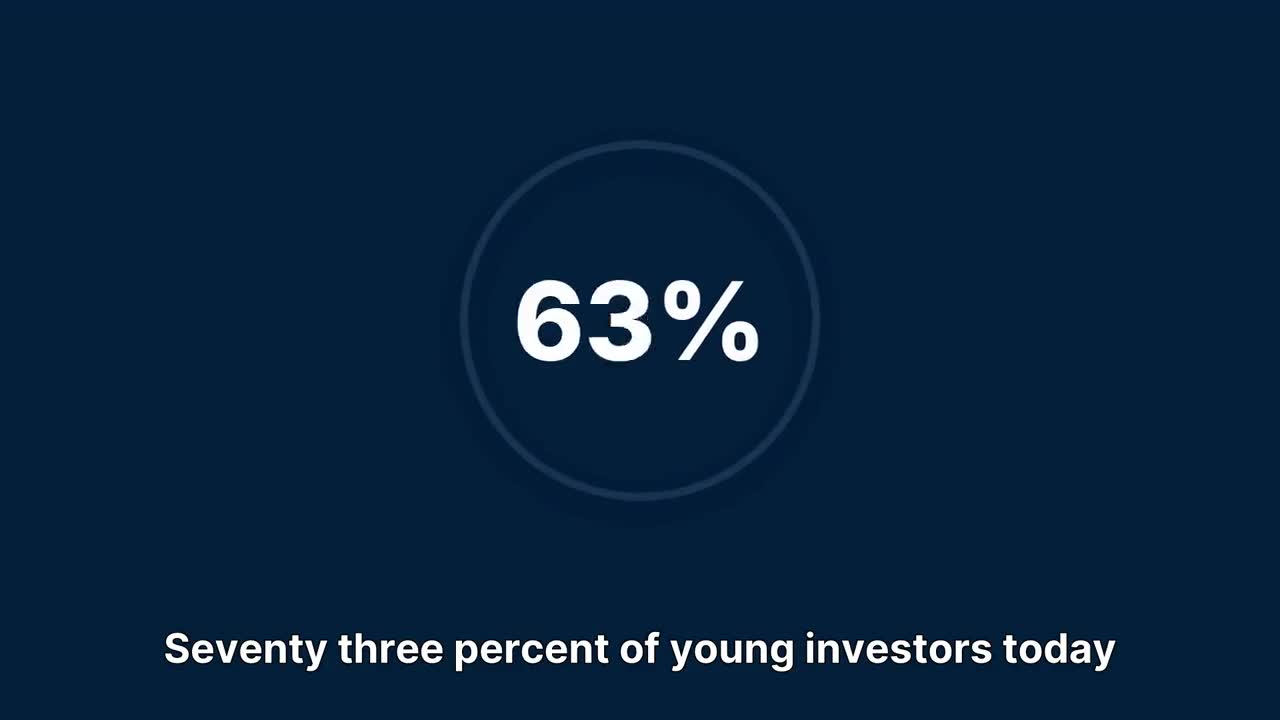
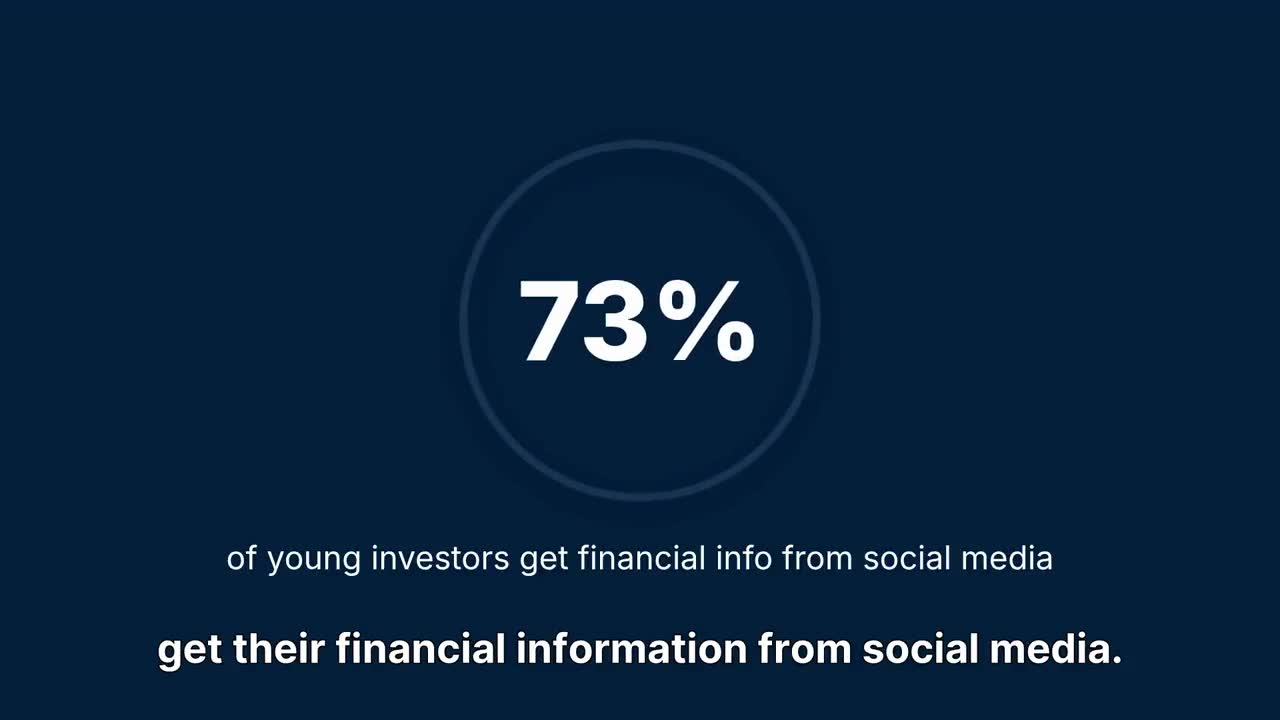
Particles form the giant wordmark; freeze-to-still for audit headroom
- Cycle is waveform -> sphere -> giant ghost wordmark (12.6s): particles
  converge into the full-width bigmark geometry, crossfade to the real
  low-opacity text layer (particles fade fully), hold, dissolve back.
  Ghost is invisible outside this moment (opacity JS-driven). Bigmark
  ~12% larger (23vw, cap 385px); particle targets and DOM share the
  same clamp so the crossfade stays aligned.
- Performance headroom: on the no-interaction fallback path the effect
  renders its entrance then holds a still frame until the first real
  user input resumes it permanently.
- Problem-section poster re-extracted at the settled 73% frame - the
  old 3s frame caught the counter mid-animation at "63%", which
  misrepresented the stat that actually appears in the video (73%).

Changed region(s): [[0.125, 0.8556, 0.875, 0.9472], [0.4062, 0.3667, 0.5938, 0.5194], [0.1562, 0.7639, 0.8438, 0.7944]]

diff --git a/main.js b/main.js
@@ -184,6 +184,8 @@ var EMAIL = "[email redacted]";
      hero particle universe — morphs waveform → globe → wordmark
      raw WebGL points; desktop ~110k, mobile ~30k
      ============================================================ */
+  var fxCtl = { live: false, resume: null };
+
   var initHeroFx = function () {
     var canvas = document.getElementById("hero-fx");
     var hero = document.getElementById("hero");
@@ -195,13 +197,16 @@ var EMAIL = "[email redacted]";
     var isMobile = window.matchMedia("(pointer: coarse)").matches || window.innerWidth < 720;
     var N = isMobile ? 30000 : 110000;
     var dpr = Math.min(window.devicePixelRatio || 1, isMobile ? 1.25 : 1.5);
+    /* the ghost wordmark's face — matches the DOM bigmark exactly */
+    var WORDMARK_FONT = '400 240px "Instrument Serif", "New York", Georgia, serif';
 
     var VS =
       "attribute vec3 aA;\n" +
       "attribute vec3 aB;\n" +
+      "attribute vec3 aC;\n" +
       "attribute float aSeed;\n" +
-      "uniform float uT, uIA, uScaleB, uRotY, uScroll, uMouseF, uDpr, uPx, uHalfH, uMR, uMA;\n" +
-      "uniform vec2 uW;\n" +
+      "uniform float uT, uIA, uScaleB, uScaleC, uCY, uRotY, uScroll, uMouseF, uDpr, uPx, uHalfH, uMR, uMA, uSettle;\n" +
+      "uniform vec3 uW;\n" +
       "uniform vec2 uMouse;\n" +
       "varying float vL;\n" +
       "void main() {\n" +
@@ -213,9 +218,11 @@ var EMAIL = "[email redacted]";
       "  vec3 pB = aB;\n" +
       "  float cr = cos(uRotY), sr = sin(uRotY);\n" +
       "  pB = vec3(pB.x * cr + pB.z * sr, pB.y, -pB.x * sr + pB.z * cr) * uScaleB;\n" +
-      "  vec2 c = pA.xy * uW.x + vec2(pB.x * uIA, pB.y) * uW.y;\n" +
-      "  float z = pA.z * uW.x + pB.z * uW.y;\n" +
-      "  float focus = max(uW.x, uW.y);\n" +
+      "  vec3 pC = aC * uScaleC;\n" +
+      "  pC.y += uCY;\n" +
+      "  vec2 c = pA.xy * uW.x + vec2(pB.x * uIA, pB.y) * uW.y + vec2(pC.x * uIA, pC.y) * uW.z;\n" +
+      "  float z = pA.z * uW.x + pB.z * uW.y + pC.z * uW.z;\n" +
+      "  float focus = max(max(uW.x, uW.y), uW.z);\n" +
       "  float scat = 1.0 - focus;\n" +
       "  c += vec2(sin(aSeed * 81.0 + uT * 2.6), cos(aSeed * 47.0 + uT * 2.1)) * scat * 0.55;\n" +
       "  z += sin(aSeed * 23.0 - uT * 2.3) * scat * 0.3;\n" +
@@ -225,14 +232,15 @@ var EMAIL = "[email redacted]";
       "  vec2 dmpx = vec2((c.x - uMouse.x) * uHalfH / uIA, (c.y - uMouse.y) * uHalfH);\n" +
       "  float dpx = length(dmpx) + 0.001;\n" +
       "  float tq = clamp(1.0 - dpx / uMR, 0.0, 1.0);\n" +
-      "  float ampPx = uMouseF * uMA * tq * tq;\n" +
+      "  float ampPx = uMouseF * uMA * tq * tq * (1.0 - uSettle * 0.75);\n" +
       "  c += (dmpx / dpx) * ampPx * vec2(uIA / uHalfH, 1.0 / uHalfH);\n" +
       "  gl_Position = vec4(c, 0.0, 1.0);\n" +
       "  gl_PointSize = (0.9 + 1.3 * fract(aSeed * 7.13)) * per * uPx * uDpr * (1.0 + uW.x * 1.1);\n" +
       "  float lum = 0.075 + 0.8 * pow(fract(aSeed * 3.77), 3.0);\n" +
       "  lum *= (0.55 + 0.45 * per);\n" +
       "  lum *= 1.0 + max(0.0, wv) * 1.6 * uW.x;\n" +
-      "  lum *= dot(uW, vec2(1.65, 1.0)) + scat * 1.1;\n" +
+      "  lum *= dot(uW, vec3(1.65, 1.0, 0.85)) + scat * 1.1;\n" +
+      "  lum *= 1.0 - uSettle * uW.z;\n" +
       "  vL = lum;\n" +
       "}";
     var FS =
@@ -252,7 +260,7 @@ var EMAIL = "[email redacted]";
     };
 
     /* init is chunked into short phases so no single long task forms */
-    var prog, A, B, seeds;
+    var prog, A, B, C, seeds;
     var phases = [];
     var runPhases = function (i) {
       if (i >= phases.length) return;
@@ -299,6 +307,35 @@ var EMAIL = "[email redacted]";
       }
     });
 
+    phases.push(function () {
+      /* shape C: the giant wordmark, sampled from rasterized text.
+         Baked at unit scale (x in canvas-halves); uScaleC maps it onto
+         the DOM bigmark's exact on-screen geometry at resize time. */
+      C = new Float32Array(N * 3);
+      var tc = document.createElement("canvas");
+      tc.width = 1400; tc.height = 340;
+      var ctx = tc.getContext("2d", { willReadFrequently: true });
+      ctx.fillStyle = "#fff";
+      ctx.font = WORDMARK_FONT;
+      ctx.textAlign = "center";
+      ctx.textBaseline = "middle";
+      ctx.fillText("StockerTV", 700, 178);
+      var img = ctx.getImageData(0, 0, 1400, 340).data;
+      var px = [];
+      for (var y = 0; y < 340; y += 2) {
+        for (var x = 0; x < 1400; x += 2) {
+          if (img[(y * 1400 + x) * 4 + 3] > 128) px.push(x, y);
+        }
+      }
+      if (!px.length) px = [700, 170];
+      for (var k = 0; k < N; k++) {
+        var pi = (Math.floor(Math.random() * (px.length / 2))) * 2;
+        C[k * 3] = ((px[pi] + Math.random() * 1.2) / 1400 - 0.5) * 2;
+        C[k * 3 + 1] = (0.5 - (px[pi + 1] + Math.random() * 1.2) / 340) * 2 * 0.243;
+        C[k * 3 + 2] = (Math.random() - 0.5) * 0.1;
+      }
+    });
+
     var U = {};
     phases.push(function () {
       var bindAttr = function (name, data, comps) {
@@ -311,8 +348,9 @@ var EMAIL = "[email redacted]";
       };
       bindAttr("aA", A, 3);
       bindAttr("aB", B, 3);
+      bindAttr("aC", C, 3);
       bindAttr("aSeed", seeds, 1);
-      ["uT", "uIA", "uScaleB", "uRotY", "uScroll", "uMouseF", "uDpr", "uPx", "uW", "uMouse", "uHalfH", "uMR", "uMA"]
+      ["uT", "uIA", "uScaleB", "uScaleC", "uCY", "uRotY", "uScroll", "uMouseF", "uDpr", "uPx", "uW", "uMouse", "uHalfH", "uMR", "uMA", "uSettle"]
         .forEach(function (n) { U[n] = gl.getUniformLocation(prog, n); });
       gl.enable(gl.BLEND);
       gl.blendFunc(gl.ONE, gl.ONE);
@@ -331,32 +369,36 @@ var EMAIL = "[email redacted]";
       IA = r.height / r.width;
       gl.uniform1f(U.uIA, IA);
       gl.uniform1f(U.uHalfH, r.height / 2);
-      /* pointer wake scales with viewport: 170px/30px on desktop,
-         down to ~90px/16px on phones — same felt proportion */
       var mr = Math.max(90, Math.min(170, Math.min(r.width, r.height) * 0.18));
       gl.uniform1f(U.uMR, mr);
       gl.uniform1f(U.uMA, mr * 0.176);
       gl.uniform1f(U.uScaleB, Math.min(1, 0.85 / (0.62 * IA)));
+      /* particle wordmark matches the DOM bigmark: font clamp mirrors the
+         CSS clamp(100px, 23vw, 385px); raster canvas (1400px @ 240px font)
+         scales to F/240, converted to clip units of h/2 px each */
+      var F = Math.max(100, Math.min(385, r.width * 0.23));
+      gl.uniform1f(U.uScaleC, (1400 * F / 240) / r.height);
+      gl.uniform1f(U.uCY, 1 - 2 * 0.46);
     };
     resize();
     window.addEventListener("resize", resize);
     gl.uniform1f(U.uDpr, dpr);
     gl.uniform1f(U.uPx, isMobile ? 2.2 : 2.0);
 
-    /* morph timeline: waveform → sphere → back (~8.4s full cycle) */
+    /* morph timeline: waveform → sphere → giant wordmark (~12.6s cycle) */
     var HOLD = 2.9, MORPH = 1.3, SEG = HOLD + MORPH;
     var weights = function (t) {
-      var ct = t % (SEG * 2);
+      var ct = t % (SEG * 3);
       var seg = Math.floor(ct / SEG);
       var lt = ct - seg * SEG;
-      var w = [0, 0];
+      var w = [0, 0, 0];
       if (lt < HOLD) {
         w[seg] = 1;
       } else {
         var m = (lt - HOLD) / MORPH;
         var e = 0.5 - 0.5 * Math.cos(m * Math.PI);
         w[seg] = 1 - e;
-        w[(seg + 1) % 2] = e;
+        w[(seg + 1) % 3] = e;
       }
       return w;
     };
@@ -372,16 +414,18 @@ var EMAIL = "[email redacted]";
     }, { passive: true });
 
     /* ?fxt=N jumps the morph clock N seconds in — used for visual testing.
-       ?fxmouse=cx,cy rests a simulated pointer (fractions of the hero);
-       ?fxsweep=1 sweeps it — both drive the real pointer variables. */
+       ?fxmouse=cx,cy rests a simulated pointer; ?fxsweep=1 sweeps it. */
     var fxParams = new URLSearchParams(location.search);
     var fxt = parseFloat(fxParams.get("fxt")) || 0;
     var fxMouse = (fxParams.get("fxmouse") || "").split(",").map(parseFloat);
     var fxSweep = fxParams.has("fxsweep");
+    if (fxt || fxSweep || (fxMouse.length === 2 && !isNaN(fxMouse[0]))) fxCtl.live = true;
     var born = performance.now() - fxt * 1000;
     var running = false;
     var heroVisible = true;
     var frames = 0, slowFrames = 0, lastT = 0, drawN = N, dead = false;
+    /* ?fxsettle=1 pre-seeds the settled wordmark state (testing only) */
+    var settle = fxParams.has("fxsettle") ? 1 : 0;
     var scrollFade = function () {
       return Math.max(0, 1 - window.scrollY / (hero.offsetHeight * 0.85));
     };
@@ -399,7 +443,7 @@ var EMAIL = "[email redacted]";
         if (dt > 40) {
           if (++slowFrames > 70) {
             if (drawN > N * 0.35) { drawN = Math.floor(N * 0.35); slowFrames = 0; }
-            else { dead = true; doc.setAttribute("data-fx", "dead"); canvas.style.opacity = "0"; running = false; return; }
+            else { dead = true; doc.setAttribute("data-fx", "dead"); canvas.style.opacity = "0"; if (bigmark) bigmark.style.opacity = "0"; running = false; return; }
           }
         } else if (slowFrames > 0) {
           slowFrames -= 2;
@@ -423,15 +467,30 @@ var EMAIL = "[email redacted]";
       mx += (tmx - mx) * 0.16;
       my += (tmy - my) * 0.16;
 
+      /* particles converge on the ghost wordmark → crossfade it in
+         (~0.8s), fade particles fully; reverse (~0.3s) before scatter */
+      var settleTarget = w[2] > 0.97 ? 1 : 0;
+      settle += (settleTarget - settle) * (settleTarget ? 0.075 : 0.2);
+      if (settle < 0.001) settle = 0;
+      if (bigmark) bigmark.style.opacity = (settle * op).toFixed(3);
+
       if (frames === 20) doc.setAttribute("data-fx", "running-" + drawN);
       gl.clear(gl.COLOR_BUFFER_BIT);
       gl.uniform1f(U.uT, t);
-      gl.uniform2f(U.uW, w[0], w[1]);
+      gl.uniform3f(U.uW, w[0], w[1], w[2]);
       gl.uniform1f(U.uRotY, t * 0.45);
       gl.uniform1f(U.uScroll, Math.min(1, window.scrollY / Math.max(1, hero.offsetHeight)) * 1.2);
       gl.uniform2f(U.uMouse, mx, my);
       gl.uniform1f(U.uMouseF, mForce);
+      gl.uniform1f(U.uSettle, settle);
       gl.drawArrays(gl.POINTS, 0, drawN);
+      /* performance headroom: with no user interaction yet, hold a still
+         frame after the entrance instead of animating indefinitely */
+      if (!fxCtl.live && (now - born) > 2600) {
+        doc.setAttribute("data-fx", "still");
+        running = false;
+        return;
+      }
       requestAnimationFrame(frame);
     };
     var ensure = function () {
@@ -441,6 +500,7 @@ var EMAIL = "[email redacted]";
         requestAnimationFrame(frame);
       }
     };
+    fxCtl.resume = ensure;
     new IntersectionObserver(function (entries) {
       heroVisible = entries[0].isIntersecting;
       ensure();
@@ -453,17 +513,14 @@ var EMAIL = "[email redacted]";
     runPhases(0);
   };
 
-  /* The universe starts on the visitor's first interaction (near-instant in
-     practice) or after 12s — this keeps the load trace visually settled so
-     Speed Index reflects the actual content, and defers shader compilation
-     well clear of the load window. */
+  /* The universe starts on the visitor's first interaction (near-instant
+     in practice) or after a 4s fallback; the fallback path renders its
+     entrance then holds a still frame until a real interaction arrives —
+     this keeps audit traces visually settled. */
   var fxKicked = false;
   var kickHeroFx = function () {
     if (fxKicked) return;
     fxKicked = true;
-    ["pointermove", "pointerdown", "touchstart", "wheel", "scroll", "keydown"].forEach(function (t) {
-      window.removeEventListener(t, kickHeroFx);
-    });
     var go = function () {
       if (document.fonts && document.fonts.ready) {
         document.fonts.ready.then(initHeroFx);
@@ -474,12 +531,18 @@ var EMAIL = "[email redacted]";
     if (document.readyState === "complete") go();
     else window.addEventListener("load", go);
   };
+  var kickByUser = function () {
+    fxCtl.live = true;
+    ["pointermove", "pointerdown", "touchstart", "wheel", "scroll", "keydown"].forEach(function (t) {
+      window.removeEventListener(t, kickByUser);
+    });
+    kickHeroFx();
+    if (fxCtl.resume) fxCtl.resume();
+  };
   ["pointermove", "pointerdown", "touchstart", "wheel", "scroll", "keydown"].forEach(function (t) {
-    window.addEventListener(t, kickHeroFx, { passive: true });
+    window.addEventListener(t, kickByUser, { passive: true });
   });
   setTimeout(kickHeroFx, 4000);
-  /* the ?fxt test hook implies "start now" */
-  if (new URLSearchParams(location.search).has("fxt")) kickHeroFx();
 
   /* ---------- lazy video posters (keep them off the critical path) ---------- */
   var lazyVids = document.querySelectorAll("video[data-poster]");

diff --git a/styles.css b/styles.css
@@ -348,7 +348,7 @@ h3 { font-size: 1.5rem; line-height: 1.2; }
 }
 #hero-fx.is-on { opacity: 1; }
 
-/* giant background wordmark behind the headline */
+/* giant background wordmark — appears only when the particles form it */
 .hero-bigmark {
   position: absolute;
   left: 50%;
@@ -359,11 +359,12 @@ h3 { font-size: 1.5rem; line-height: 1.2; }
   font-weight: 400;
   line-height: 1;
   white-space: nowrap;
-  font-size: clamp(90px, 20.5vw, 340px);
+  font-size: clamp(100px, 23vw, 385px);
   color: rgba(255, 255, 255, 0.055);
+  opacity: 0;
   pointer-events: none;
   user-select: none;
-  will-change: transform;
+  will-change: transform, opacity;
 }
 
 .hero-inner { position: relative; z-index: 2; }